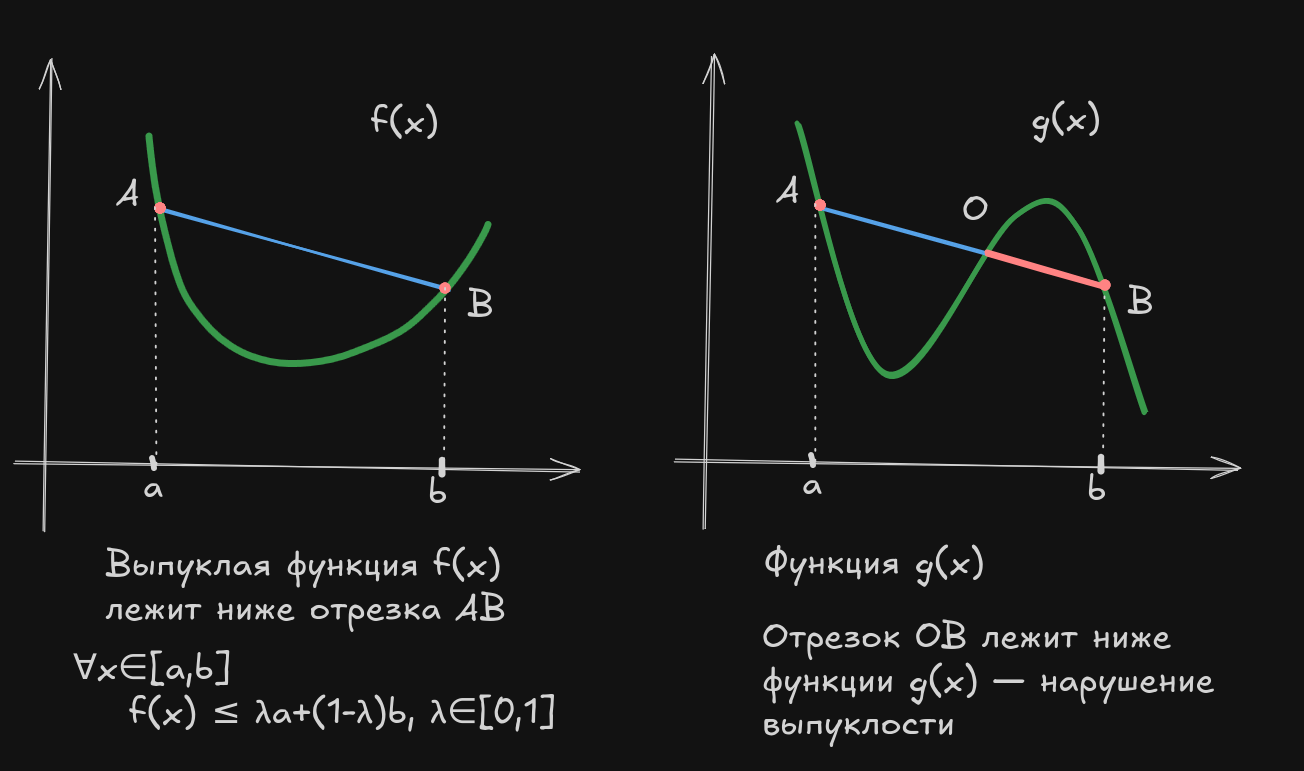
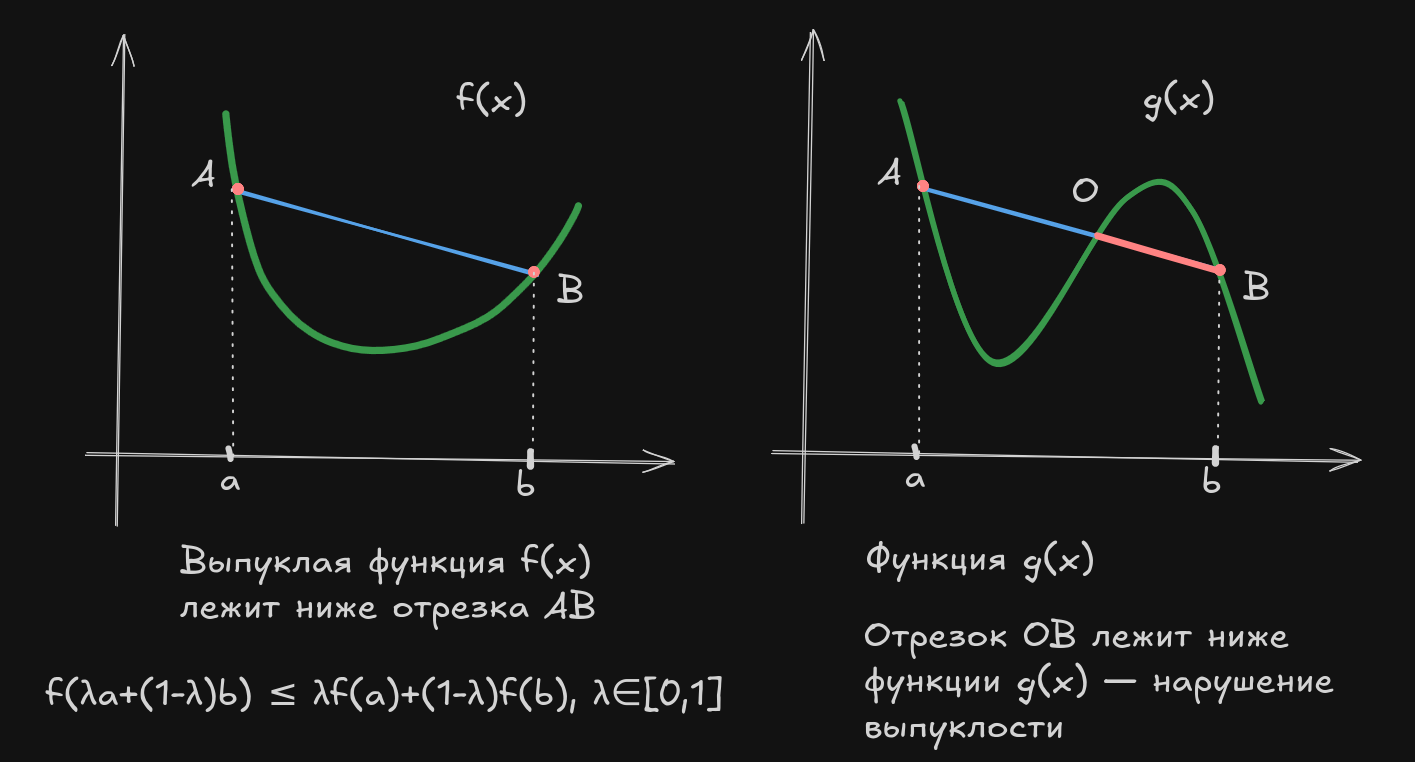
.

diff --git a/Глава 1. Введение в оптимизацию.md b/Глава 1. Введение в оптимизацию.md
@@ -8,7 +8,7 @@
 > [!tip] Концептуальная аналогия: Навигатор в мультивселенной
 > Представьте, что вы — не просто путешественник, ищущий дорогу из точки A в точку B. Вы находитесь в пространстве всех возможных миров (допустимых решений), и ваша цель — найти тот единственный мир, где стоимость путешествия минимальна. Методы оптимизации — это компасы и карты для навигации в этой мультивселенной. Одни компасы работают только на «плоских» мирах (линейное программирование), другие — на искривлённых (нелинейное программирование), третьи — в мирах, где можно ходить только по целым координатам (дискретная оптимизация).
 
-Математическое программирование (МП) — раздел математики, разрабатывающий теорию и численные методы решения многомерных экстремальных задач с ограничениями.
+Математическое программирование (МП) — раздел математики, разрабатывающий теорию и численные методы решения многомерных экстремальных задач в том числе с ограничениями.
 
 Общая постановка задачи оптимизации:
 
@@ -18,7 +18,7 @@ $$
 
 где $f(x)$ — **целевая функция** (критерий качества), $X \subseteq \mathbb{R}^n$ — **допустимое множество**, $x^* \in X$ — точка глобального минимума.
 
-### Дерево методов
+### Карта разделов: классы задач и основные методы
 
 ```mermaid
 graph LR
@@ -86,10 +86,10 @@ graph LR
 4. **Нелинейное программирование (НЛП):** хотя бы одна функция нелинейна. Мир становится искривлённым, появляются «овраги» и «холмы».
 5. **Квадратичное программирование:** целевая функция квадратична, ограничения линейны.
 6. **Дискретное программирование:** переменные принимают только целые (или булевы) значения. Нельзя построить 2.5 завода.
-7. **Динамическое программирование:** решение ищется не в точке, а в виде *последовательности* решений во времени.
+7. **Динамическое программирование:** решение ищется не в точке, а в виде *последовательности* решений по шагам (этапам) процесса.
 
 > [!warning] Подводный камень
-> Не путайте *нелинейность* с *сложностью*. Линейная задача с миллионом переменных решается быстрее, чем нелинейная задача с десятью переменными. Класс задачи определяет *метод*, а не размерность.
+> Не путайте нелинейность со сложностью. Линейная задача с миллионом переменных обычно решается предсказуемо и надёжно, а вот **невыпуклая** нелинейная задача с десятью переменными может оказаться практически нерешаемой (вплоть до NP-трудных случаев). Сложность и выбор метода определяет класс задачи — линейность, выпуклость, дискретность, — а не размерность сама по себе.
 
 ---
 
@@ -121,16 +121,17 @@ $$
 
 Геометрически: крайняя точка — это «вершина», которую нельзя получить как внутреннюю точку никакого отрезка, целиком лежащего в $X$. У выпуклого многогранника крайние точки — это его вершины.
 
-**Теорема 1.2.2 (о крайней точке).** *Всякое замкнутое выпуклое ограниченное (компактное) множество $X \subset \mathbb{R}^n$ содержит хотя бы одну крайнюю точку.*
-
-**Доказательство (скетч).** Рассмотрим функцию $\|x\|^2$ на $X$. Поскольку $X$ компактно, а функция непрерывна, она достигает своего минимума в некоторой точке $x^* \in X$. Покажем, что $x^*$ — крайняя. Если бы $x^* = \lambda x^{(1)} + (1-\lambda) x^{(2)}$ для $x^{(1)} \neq x^{(2)}$, то по строгой выпуклости нормы $\|x^*\|^2 < \lambda \|x^{(1)}\|^2 + (1-\lambda) \|x^{(2)}\|^2$, и хотя бы одна из точек $x^{(1)}, x^{(2)}$ имела бы меньшую норму — противоречие с минимальностью. $\blacksquare$
+**Теорема 1.2.2 (о крайней точке).** Всякое непустое замкнутое ограниченное (компактное) выпуклое множество $X \subset \mathbb{R}^n$ содержит хотя бы одну крайнюю точку.
+**Доказательство (скетч).** Рассмотрим $\varphi(x) = |x|^2$ на $X$. Поскольку $X$ компактно, а $\varphi$ непрерывна, $\varphi$ достигает на $X$ **максимума** в некоторой точке $x^*$. Покажем, что $x^*$ — крайняя. Если бы $x^* = \lambda x^{(1)} + (1-\lambda) x^{(2)}$ при $x^{(1)} \neq x^{(2)}$, $\lambda \in (0,1)$, то по строгой выпуклости $\varphi$:
+$$|x^*|^2 < \lambda |x^{(1)}|^2 + (1-\lambda) |x^{(2)}|^2 \le \max\big(|x^{(1)}|^2, |x^{(2)}|^2\big) \le |x^*|^2,$$
+где последнее неравенство — максимальность $x^*$. Противоречие. $\blacksquare$
 
 > [!note] Зачем это нужно
-> В линейном программировании оптимальное решение всегда достигается в крайней точке допустимого многогранника (если оно существует). Весь симплекс-метод — это, по сути, «умный перебор» крайних точек.
+> В линейном программировании, если оптимальное решение существует, то **хотя бы одно** достигается в крайней точке (вершине) допустимого многогранника. Оптимум может достигаться и на целом ребре/грани (альтернативный оптимум), но вершина среди оптимумов есть всегда. Весь симплекс-метод — это, по сути, «умный перебор» вершин.
 
 ### Выпуклая оболочка
 
-**Определение 1.2.3.** **Выпуклая оболочкой** множества $G$ называется наименьшее выпуклое множество, содержащее $G$. Обозначается $[G]$.
+**Определение 1.2.3.** **Выпуклой оболочкой** множества $G$ называется наименьшее выпуклое множество, содержащее $G$. Обозначается $[G]$.
 
 Аналитически: $[G] = \left\{ \sum_{i=1}^{N} \mu_i x^{(i)} \;\middle|\; x^{(i)} \in G,\; \mu_i \ge 0,\; \sum \mu_i = 1,\; N \in \mathbb{N} \right\}$.
 
@@ -226,7 +227,7 @@ $$
 > [!note] Мостик между множествами и функциями
 > Теорема 1.3.5 — это ключевой мост: она говорит, что *выпуклость функций-ограничений гарантирует выпуклость допустимой области*. Именно поэтому выпуклое программирование так хорошо изучено: у него «правильная» геометрия.
 
-**Теорема 1.3.6 (Главная теорема выпуклого программирования).** *Если $f$ — выпуклая функция на замкнутом выпуклом множестве $X$, то любой локальный минимум $f$ на $X$ является глобальным. Если $f$ строго выпукла — глобальный минимум единственен.*
+**Теорема 1.3.6 (Главная теорема выпуклого программирования).** *Если $f$ — выпуклая функция на выпуклом множестве $X$, то любой локальный минимум $f$ на $X$ является глобальным. Если $f$ строго выпукла — глобальный минимум единственен.*
 
 **Доказательство** (от противного). Пусть $x^*$ — локальный, но не глобальный минимум. Тогда существует $x^{**} \in X$ с $f(x^{**}) < f(x^*)$. По определению локального минимума, в некоторой $\varepsilon$-окрестности точки $x^*$ функция не меньше $f(x^*)$. Но точка $x_\lambda = \lambda x^{**} + (1-\lambda) x^*$ при достаточно малых $\lambda > 0$ попадает в эту окрестность, и при этом
 
@@ -243,13 +244,12 @@ $$
 
 ## 1.4. Постановка задачи оптимизации
 
-Общая математическая модель:
+Вспомним постановку из §1.1:
 
 $$
 \begin{aligned}
-& f(x) \to \min_{x} \\
-& x \in X
-\end{aligned} \qquad (1.4.1)
+& f(x) \to \min_{x \in X} \\
+\end{aligned} \qquad (1.1.1)
 $$
 
 где:
@@ -264,22 +264,24 @@ $$
 
 **Теорема 1.4.1 (Вейерштрасс).** *Если $X \subset \mathbb{R}^n$ — замкнутое ограниченное (компактное) множество, а $f: X \to \mathbb{R}$ — непрерывная функция, то $f$ достигает на $X$ своего глобального минимума и максимума.*
 
-**Доказательство.** По теореме Больцано-Вейерштрасса, из любой ограниченной последовательности можно выделить сходящуюся подпоследовательность. Пусть $\{x_k\} \subset X$ — минимизирующая последовательность, т.е. $f(x_k) \to \inf_X f = m$. Поскольку $X$ компактно, существует сходящаяся подпоследовательность $x_{k_j} \to x^* \in X$ (замкнутость!). По непрерывности $f(x^*) = \lim f(x_{k_j}) = m$. Значит, $x^*$ — точка минимума. $\blacksquare$
+**Доказательство.** По теореме Больцано-Вейерштрасса, из любой ограниченной последовательности можно выделить сходящуюся подпоследовательность. Пусть $\{x_k\} \subset X$ — минимизирующая последовательность, т.е. $f(x_k) \to \inf_X f = m$. Поскольку $X$ компактно, существует сходящаяся подпоследовательность $x_{k_j} \to x^* \in X$ (замкнутость!). По непрерывности $f(x^*) = \lim f(x_{k_j}) = m$. Значит, $x^*$ — точка минимума.
+Для максимума применить доказанное к $-f$.
+$\blacksquare$
 
 ### Классы оптимизационных задач
 
 В зависимости от структуры $f$ и $X$ выделяют:
 
-| Класс | Целевая функция | Ограничения |
-|---|---|---|
-| Безусловная оптимизация | любая | $X = \mathbb{R}^n$ |
-| Классическая задача на условный экстремум | любая | $g_i(x) = 0$ |
-| **Выпуклое программирование** | выпуклая | $X$ выпукло |
-| **Линейное программирование (ЛП)** | линейная | линейные |
-| **Квадратичное программирование** | квадратичная | линейные |
-| Нелинейное программирование (НЛП) | нелинейная | нелинейные |
-| Дискретное программирование | любая | $x_j \in \mathbb{Z}$ |
-| Задача оптимального управления | функционал | дифф. уравнения |
+| Класс                                     | Целевая функция                | Ограничения                                           |
+| ----------------------------------------- | ------------------------------ | ----------------------------------------------------- |
+| Безусловная оптимизация                   | любая                          | $X = \mathbb{R}^n$                                    |
+| Классическая задача на условный экстремум | любая                          | $g_i(x) = 0$                                          |
+| **Выпуклое программирование**             | выпуклая                       | $X$ выпукло                                           |
+| **Линейное программирование (ЛП)**        | линейная                       | линейные                                              |
+| **Квадратичное программирование**         | квадратичная                   | линейные                                              |
+| Нелинейное программирование (НЛП)         | хотя бы одна функция нелинейна | допускаются линейные (хотя бы одна функция нелинейна) |
+| Дискретное программирование               | любая                          | $x_j \in \mathbb{Z}$                                  |
+| Задача оптимального управления            | функционал                     | дифф. уравнения                                       |
 
 ---
 
@@ -287,7 +289,7 @@ $$
 
 ### Проверка выпуклости (псевдокод)
 
-На практике аналитическая проверка (1.3.1) для сложных функций затруднительна. Для дважды дифференцируемых функций проверяют положительную полуопределённость матрицы Гессе ($\nabla^2 f(x) \succeq 0$). Однако для быстрой эвристики (или опровержения выпуклости) можно использовать метод случайной выборки хорд:
+На практике аналитическая проверка (1.3.1) для сложных функций затруднительна. Для дважды дифференцируемой $f$ на открытом выпуклом $X$: $f$ выпукла на $X$ $\iff$ $\nabla^2 f(x) \succeq 0$ для всех $x \in X$). Однако для быстрой эвристики (или опровержения выпуклости) можно использовать метод случайной выборки хорд:
 
 ```python
 import numpy as np
@@ -326,8 +328,8 @@ def check_convexity_heuristic(f, x1, x2, num_tests=1000, tol=1e-7, seed=0):
 
 > [!success] Ответы
 > 1. $f''(x) = e^x > 0$ для всех $x$.
-> 2. $X$ — выпуклый (круг), $Y$ — невыпуклый (окружность, хорда между двумя точками проходит внутри).
-> 3. Условие $f'' > 0$ — *достаточное*, но не необходимое. Строгая выпуклость следует из $f''(x) \ge 0$ и $f''(x) = 0$ лишь в изолированных точках.
+> 2. $X$ — выпуклый (круг), $Y$ — невыпуклый (окружность, хорда проходит внутри круга, то есть вне $Y$, поэтому $Y$ невыпукло).
+> 3. $f'' \ge 0$ всюду $\iff$ выпуклость (нестрогая); строгая выпуклость при этом возможна и с $f''(0)=0$
 > 4. $\max(\lambda x + (1-\lambda) y) \le \lambda \max(x) + (1-\lambda) \max(y)$ — максимум линейной комбинации не превосходит линейной комбинации максимумов.
 
 ---

diff --git a/Глава 4. Транспортные задачи линейного программирования.md b/Глава 4. Транспортные задачи линейного программирования.md
@@ -183,14 +183,11 @@ $$
 Шаги:
 - $a_1 > b_1$: $x_{11} = 5$, $a_1' = 5$, исключаем $B_1$.
 - $a_1' < b_2$: $x_{12} = 5$, $b_2' = 10$, исключаем $A_1$.
-- $a_2 < b_2'$: $x_{22} = 10$, $b_2'' = 5$, исключаем $A_2$.
-- $a_2' > b_2''$: $x_{22}' = 5$ (дополняем), $a_2'' = 5$, исключаем $B_2$.
-- $a_2'' < b_3$: $x_{23} = 5$, $b_3' = 20$, исключаем $A_2$.
-- $a_3 > b_3'$: $x_{33} = 20$, $a_3' = 10$, исключаем $B_3$.
-- $a_3' = b_4$: $x_{34} = 10$. Конец.
-
->[!img] 
->Последовательность таблиц перевозок, иллюстрирующая шаги диагонального метода. Каждая таблица показывает оставшиеся строки и столбцы после исключения очередного пункта. В финальной таблице вписаны все шесть заполненных клеток с объёмами перевозок и стоимости.
+- $a_2 > b_2'$: $x_{22} = 10$, $a_2' = 10$, исключаем $B_2$.
+- $a_2' < b_3$: $x_{23} = 10$, $b_3'=15$, исключаем $A_2$.
+- $b_3' < a_3$: $x_{33}=15$, $a_3'=15$, исключаем $B_3$.
+- $a_3'=b_4$: $x_{34}=15$, исключаем $A_3$ и $B_4$.
+![[DiagonalMethod.gif]]
 
 ---
 
